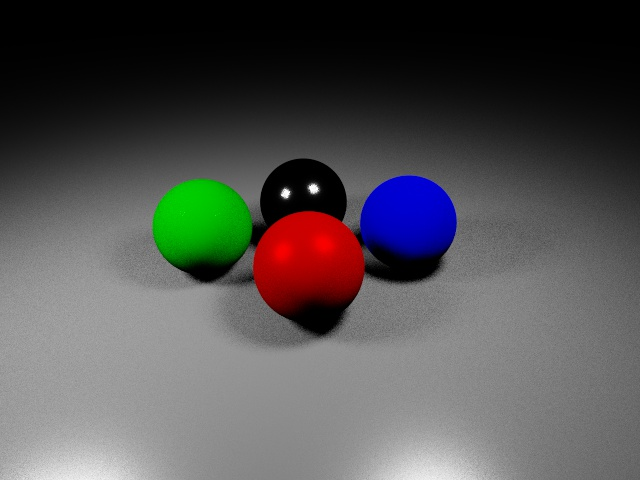
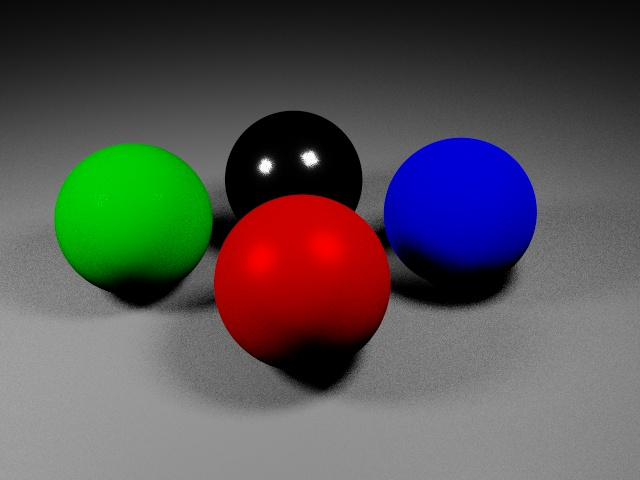
change lld

diff --git a/hw3-starterCode/hw3.cpp b/hw3-starterCode/hw3.cpp
@@ -58,8 +58,8 @@ char * filename = NULL;
 #define MODE_JPEG 2
 
 //you may want to make these smaller for debugging purposes
-#define WIDTH 800
-#define HEIGHT 450
+#define WIDTH 640
+#define HEIGHT 480
 
 int mode = MODE_DISPLAY;
 
@@ -132,7 +132,7 @@ struct Light
     glm::dvec3 p[4];
 };
 
-int timesOfTriangleIntersect = 0, timesOfSphereIntersect = 0, timesOfBBIntersect = 0;
+long long timesOfTriangleIntersect = 0, timesOfSphereIntersect = 0, timesOfBBIntersect = 0;
 
 struct BVHBoundBox {
     glm::dvec3 p[2];
@@ -670,7 +670,7 @@ void draw_scene()
             y0 = (1.0 * n2) / (1.0 * d2) - 0.5;
             printf("Sample time:%d x0 y0 %f %f\n",sampleTime, x0, y0);
 
-#pragma omp parallel for
+#pragma omp parallel for schedule(dynamic, 1)
             for (int x = 0; x < WIDTH; x++)
             {
                 for (unsigned int y = 0; y < HEIGHT; y++)
@@ -698,9 +698,10 @@ void draw_scene()
     else {
         xMin+=dx/(2.0*numAntialiasing),yMin+=dy/(1.0*numAntialiasing);
         double px=dx/(1.0*numAntialiasing),py=dy/(1.0*numAntialiasing);
-//#pragma omp parallel for
+#pragma omp parallel for schedule(dynamic, 1)
         for (int x = 0; x < WIDTH; x++)
         {
+            printf("%d\n", x);
             for (int y = 0; y < HEIGHT; y++)
             {
                 glm::dvec3 col(0.0,0.0,0.0);
@@ -733,10 +734,10 @@ void draw_scene()
 
     current_time = glutGet(GLUT_ELAPSED_TIME) * 0.001 - current_time;
     printf("Cost time: %f s\n", current_time);
-    printf("Total triangle intersection %d\n",timesOfTriangleIntersect);
-    printf("Total sphere intersection %d\n",timesOfSphereIntersect);
+    printf("Total triangle intersection %lld\n",timesOfTriangleIntersect);
+    printf("Total sphere intersection %lld\n",timesOfSphereIntersect);
     if (useBVH) {
-        printf("Total AABB intersection %d\n", timesOfBBIntersect);
+        printf("Total AABB intersection %lld\n", timesOfBBIntersect);
     }
     printf("Done!\n"); fflush(stdout);
 }
@@ -1188,13 +1189,14 @@ int main(int argc, char ** argv)
         mode = MODE_DISPLAY;
     }
 
-    fov = 50.0 / 180.0 * PI;
-    useMonteCarlo = true;
-    numAntialiasing = 1;
-    numSoftShadow=1;
+    fov = 60.0 / 180.0 * PI;
+    numMonteCarlo = 100;
+    useMonteCarlo = false;
+    numAntialiasing = 3;
+    numSoftShadow=20;
     radiusSoftShadow=0.2;
     useBVH = true;
-    numRecursive = 0;
+    numRecursive = 2;
 
     glutInit(&argc,argv);
     if (useMonteCarlo) {
